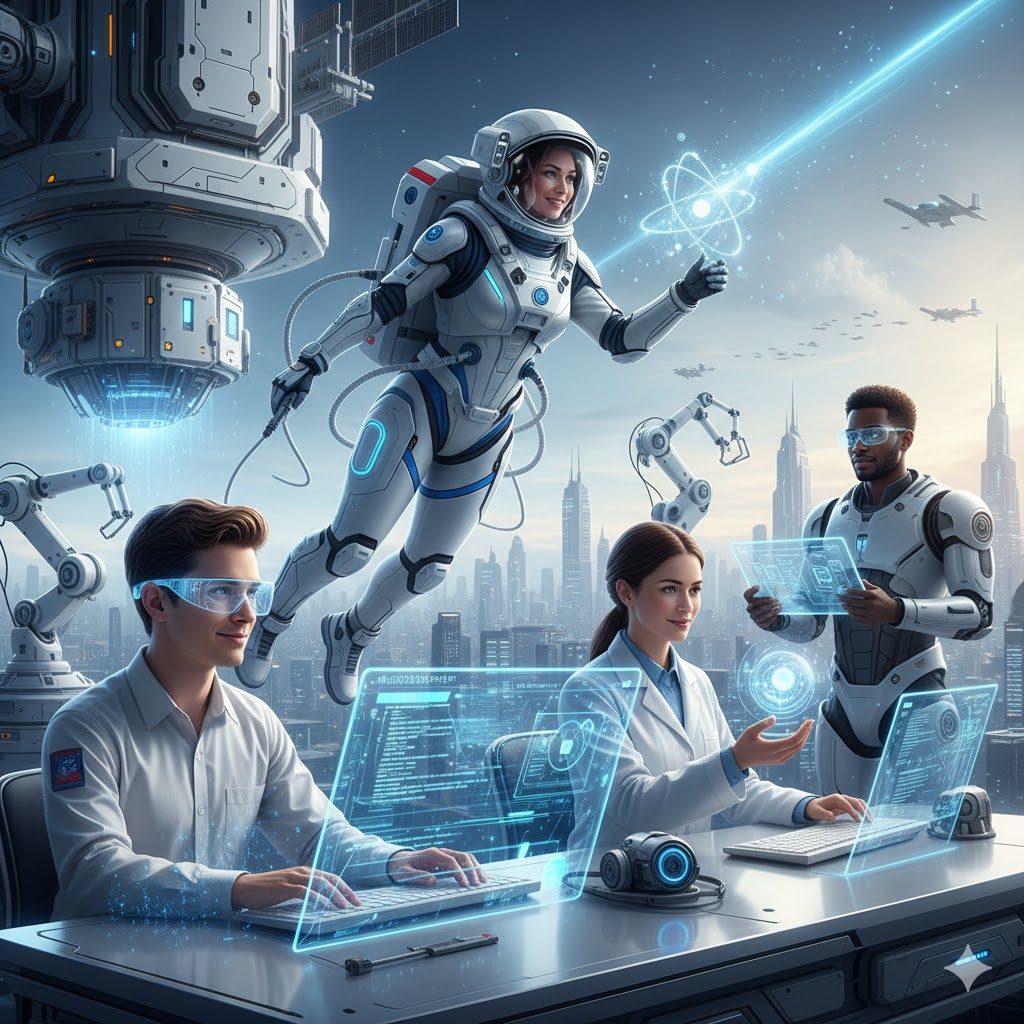
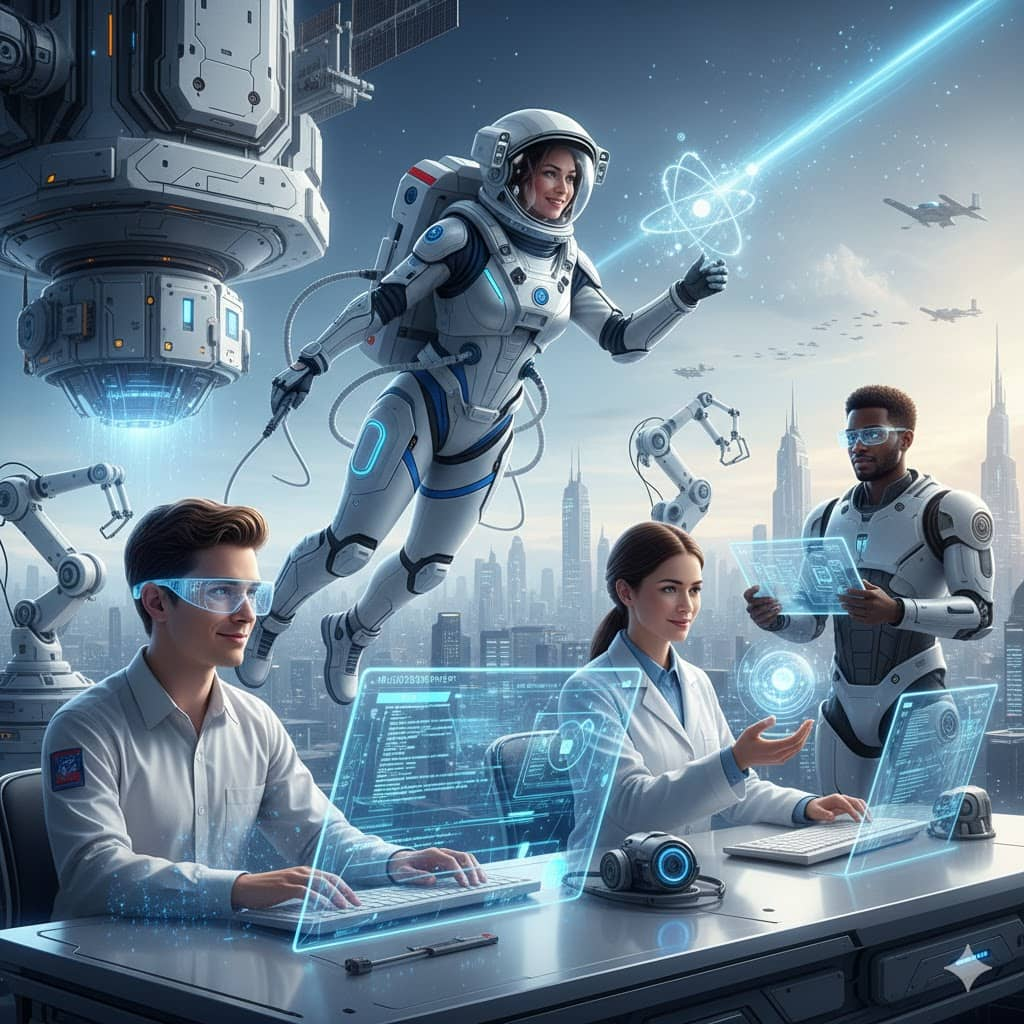
R4.1

diff --git a/index.html b/index.html
@@ -248,7 +248,7 @@
                     style="text-decoration: none; color: inherit;">
                     <div class="library-card-image"
                         style="background: linear-gradient(135deg, #ff6b6b, #ee5a24); height: 400px;"> <img
-                            src="games/wordsearch/assets/thumbnail.png"
+                            src="games/wordsearch/assets/thumbnail.webp"
                             alt="لعبة البحث عن الكلمات - ألعاب تعليمية مدرسة أكدال لتعلم اللغة العربية"
                             style="width: 100%; height: 100%; object-fit: cover;"> </div>
                     <div class="library-card-content"> <span class="library-card-category">الغة العربية</span>
@@ -271,7 +271,7 @@
                     style="text-decoration: none; color: inherit;">
                     <div class="library-card-image"
                         style="background: linear-gradient(135deg, #f39c12, #e67e22); height: 400px;"> <img
-                            src="games/basketball/thumbnail.jpg"
+                            src="games/basketball/thumbnail.webp"
                             alt="لعبة كرة السلة - أنشطة رياضية ترفيهية للأطفال - مدرسة أكدال ايت ملول"
                             style="width: 100%; height: 100%; object-fit: cover;"> </div>
                     <div class="library-card-content"> <span class="library-card-category">رياضة</span>
@@ -290,7 +290,7 @@
                     style="text-decoration: none; color: inherit;">
                     <div class="library-card-image"
                         style="background: linear-gradient(135deg, #a8e063, #56ab2f); height: 300px;"> <img
-                            src="assets/images/lab/dino-lab.png"
+                            src="assets/images/lab/dino-lab.webp"
                             alt="لعبة الديناصور المعدلة - تعلم البرمجة للأطفال عبر الألعاب التفاعلية"
                             style="width: 100%; height: 100%; object-fit: cover;"> </div>
                     <div class="library-card-content"> <span class="library-card-category"
@@ -304,7 +304,7 @@
                 </a> <a href="Magic.html" class="library-card lab-card" style="text-decoration: none; color: inherit;">
                     <div class="library-card-image"
                         style="background: linear-gradient(135deg, #667eea, #764ba2); height: 300px;"> <img
-                            src="assets/images/lab/magic-lab.png"
+                            src="assets/images/lab/magic-lab.webp"
                             alt="لعبة السحر - مشاريع برمجية إبداعية من طلاب مدرسة أكدال"
                             style="width: 100%; height: 100%; object-fit: cover;"> </div>
                     <div class="library-card-content"> <span class="library-card-category"
